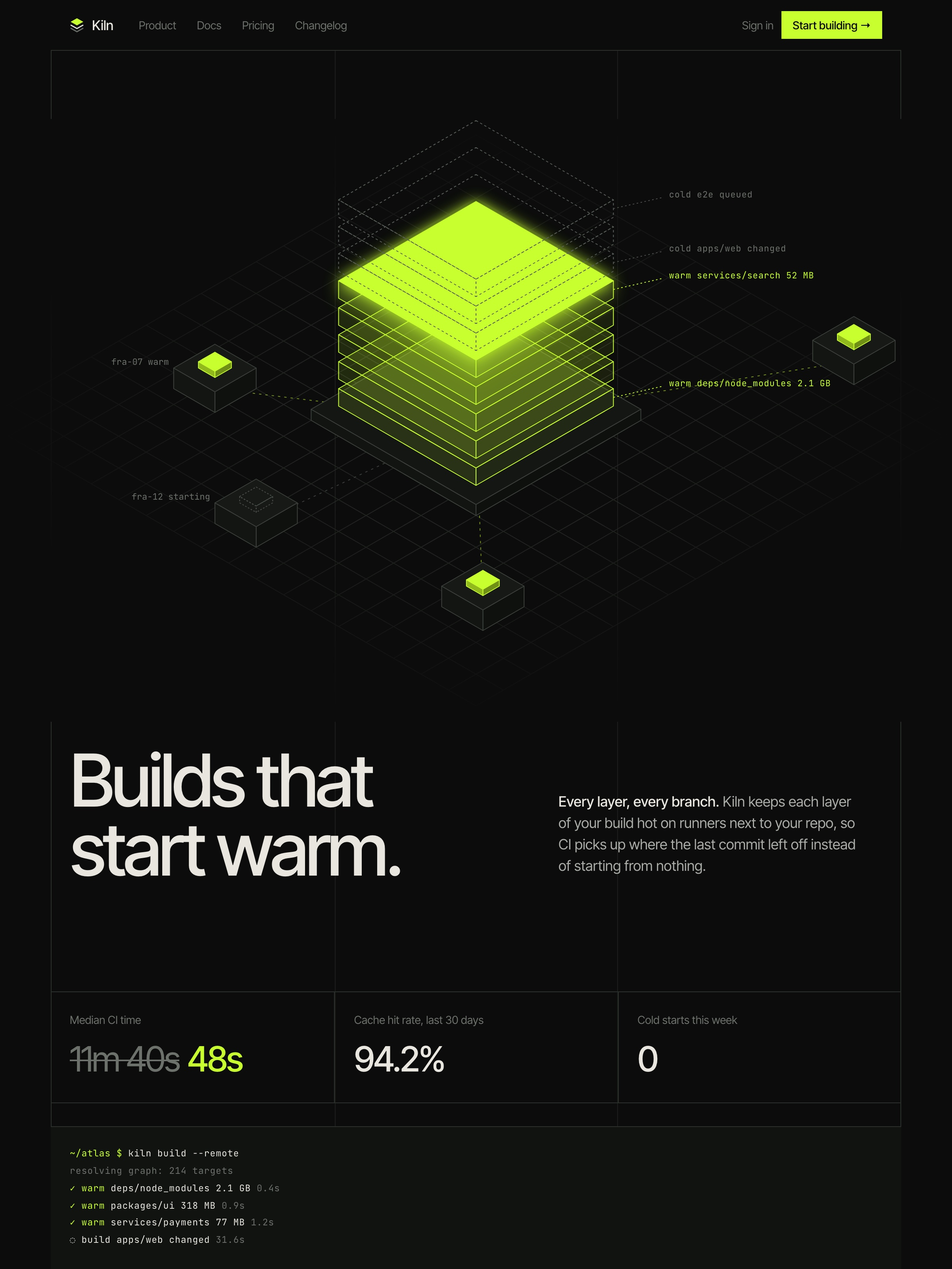
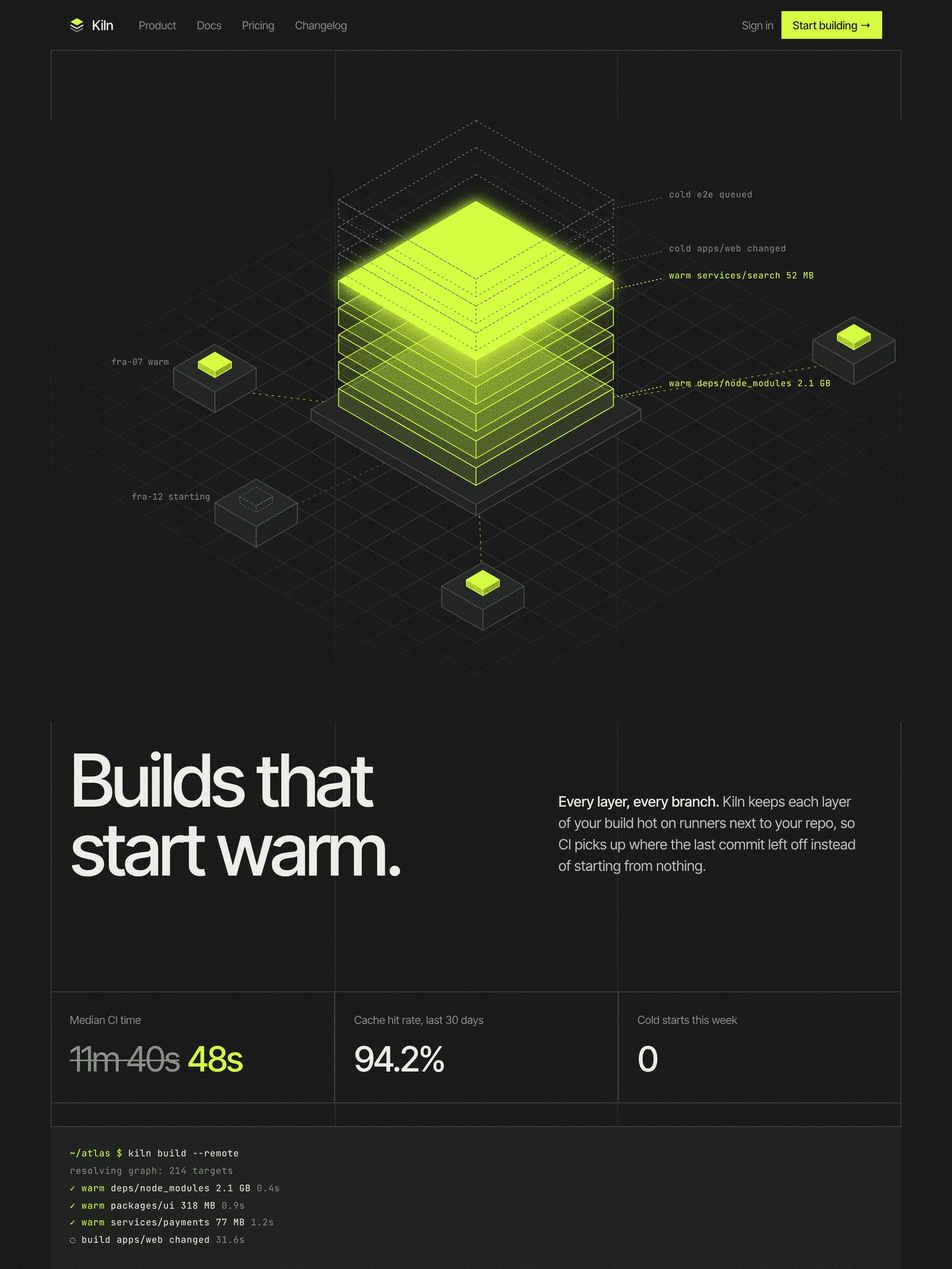
Give Kiln a build trace and cache view, with film grain
Kiln now carries three shots in its Lab carousel: the landing section,
a build waterfall and a 30-day cache heatmap. All three have a subtle
SVG film grain.

diff --git a/components/lab-entries.ts b/components/lab-entries.ts
@@ -4,6 +4,8 @@ import halden from "@/public/images/lab/halden.jpg";
 import haldenDock from "@/public/images/lab/halden-dock.jpg";
 import haldenException from "@/public/images/lab/halden-exception.jpg";
 import kiln from "@/public/images/lab/kiln.jpg";
+import kilnHeatmap from "@/public/images/lab/kiln-heatmap.jpg";
+import kilnTrace from "@/public/images/lab/kiln-trace.jpg";
 import moreiraHolm from "@/public/images/lab/moreira-holm.jpg";
 import parity from "@/public/images/lab/parity.jpg";
 import turndown from "@/public/images/lab/turndown.jpg";
@@ -67,7 +69,17 @@ export const labEntries: LabEntry[] = [
       {
         src: kiln,
         alt: "Kiln landing section: an isometric stack of build layers, the cached ones glowing acid green and the changed ones drawn as wireframes, above the headline Builds that start warm, CI stats and a terminal run.",
-        label: "Overview",
+        label: "Landing",
+      },
+      {
+        src: kilnTrace,
+        alt: "Kiln build trace for build 4812: built in 48 seconds with 11 of 14 targets warm, a waterfall of targets with cached ones in acid green and three rebuilt ones in bone, and the critical path.",
+        label: "Build trace",
+      },
+      {
+        src: kilnHeatmap,
+        alt: "Kiln cache page: 94.2% hit rate, 212 hours saved, a 30-day heatmap of hit rate per package, and the packages with the most cold starts with suggested fixes.",
+        label: "Cache",
       },
     ],
   },
